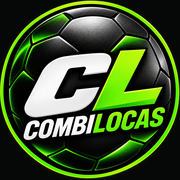
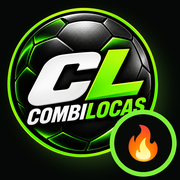
Un icono distinto para cada app: Combilocas, Mis combis y Panel
Claude-Session: https://claude.ai/code/session_01H8yo2hvFsocWgiXX8LNWo6

diff --git a/docs/publica/index.html b/docs/publica/index.html
@@ -8,8 +8,8 @@
 <meta name="apple-mobile-web-app-capable" content="yes">
 <meta name="apple-mobile-web-app-status-bar-style" content="black-translucent">
 <meta name="apple-mobile-web-app-title" content="Combilocas">
-<link rel="apple-touch-icon" href="../icono-180.png?v=cl4">
-<link rel="icon" href="../icono-180.png?v=cl4">
+<link rel="apple-touch-icon" href="../icono-180.png?v=cl5">
+<link rel="icon" href="../icono-180.png?v=cl5">
 <link rel="manifest" href="manifest.json">
 <link rel="preconnect" href="https://fonts.googleapis.com"><link rel="preconnect" href="https://fonts.gstatic.com" crossorigin>
 <link href="https://fonts.googleapis.com/css2?family=Anton&family=Roboto+Condensed:wght@400;500;700&display=swap" rel="stylesheet">

diff --git a/docs/index.html b/docs/index.html
@@ -8,8 +8,8 @@
 <meta name="apple-mobile-web-app-capable" content="yes">
 <meta name="apple-mobile-web-app-status-bar-style" content="black-translucent">
 <meta name="apple-mobile-web-app-title" content="Combilocas">
-<link rel="apple-touch-icon" href="icono-180.png?v=cl4">
-<link rel="icon" href="icono-180.png?v=cl4">
+<link rel="apple-touch-icon" href="icono-180.png?v=cl5">
+<link rel="icon" href="icono-180.png?v=cl5">
 <link rel="manifest" href="manifest.json">
 <link rel="preconnect" href="https://fonts.googleapis.com"><link rel="preconnect" href="https://fonts.gstatic.com" crossorigin>
 <link href="https://fonts.googleapis.com/css2?family=Anton&family=Roboto+Condensed:wght@400;500;700&display=swap" rel="stylesheet">

diff --git a/docs/mis/index.html b/docs/mis/index.html
@@ -8,7 +8,7 @@
 <meta name="apple-mobile-web-app-capable" content="yes">
 <meta name="apple-mobile-web-app-status-bar-style" content="black-translucent">
 <meta name="apple-mobile-web-app-title" content="Mis combis">
-<link rel="icon" href="../panel/logo.png"><link rel="apple-touch-icon" href="../icono-180.png?v=cl4">
+<link rel="icon" href="../panel/logo.png"><link rel="apple-touch-icon" href="icono-180.png?v=cl5">
 <style>
 :root{--bg:#0a0f1c;--card:#141c2f;--card2:#1e2940;--line:#2a3652;--txt:#ffffff;--mut:#9aa8c3;--ok:#22c55e;--ko:#f87171;--warn:#fbbf24;--r:20px}
 *{box-sizing:border-box;-webkit-tap-highlight-color:transparent}

diff --git a/docs/panel/index.html b/docs/panel/index.html
@@ -4,7 +4,7 @@
 <meta charset="utf-8">
 <meta name="viewport" content="width=device-width, initial-scale=1, viewport-fit=cover">
 <title>Panel Combilocas</title>
-<link rel="icon" href="logo.png"><link rel="apple-touch-icon" href="../icono-180.png?v=cl4">
+<link rel="icon" href="logo.png"><link rel="apple-touch-icon" href="icono-180.png?v=cl5">
 <script src="https://telegram.org/js/telegram-web-app.js"></script>
 <link href="https://fonts.googleapis.com/css2?family=Press+Start+2P&display=swap" rel="stylesheet">
 <style>
